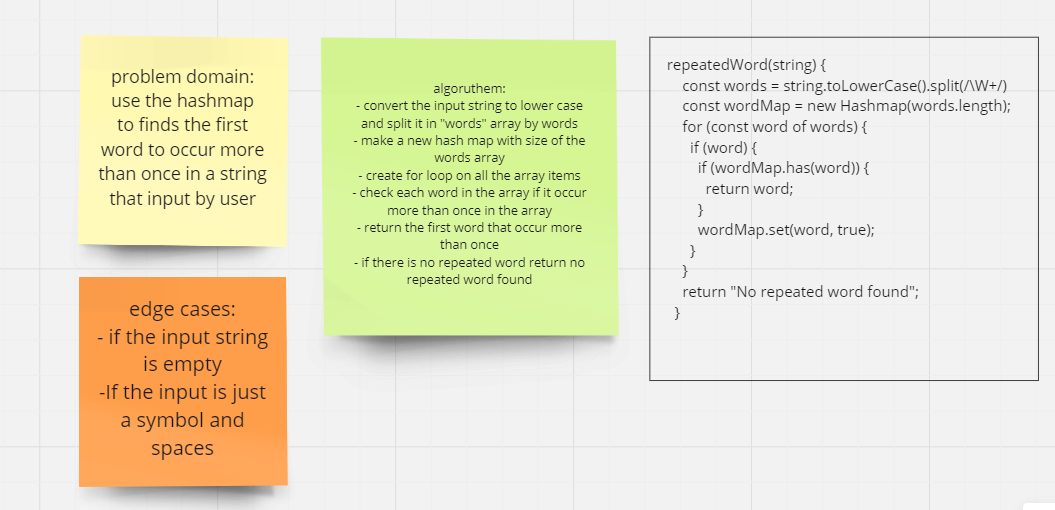
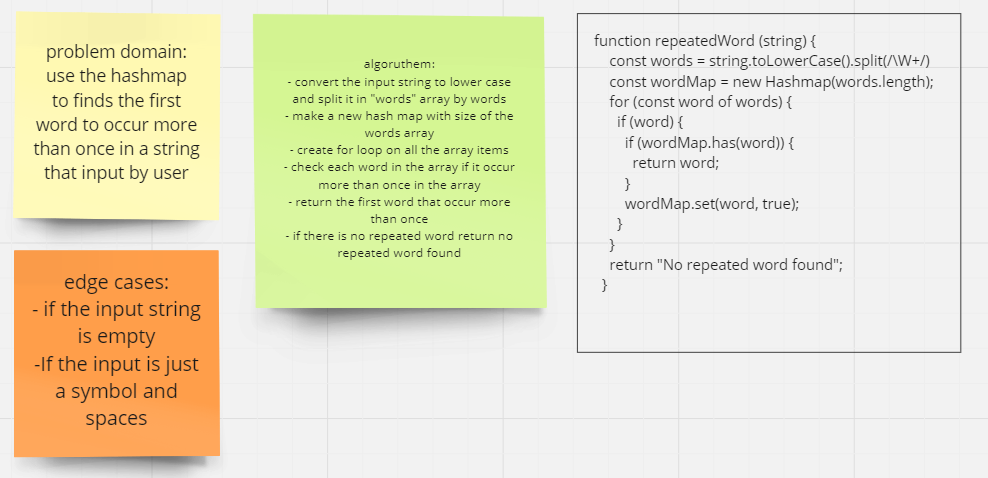
transfer the repeatedWord to function DONE

Changed region(s): [[0.0, 0.0, 1.0, 0.9958], [0.5769, 0.7322, 0.9717, 0.7615]]

diff --git a/javascript/Class31(repeatedWord).md b/javascript/Class31(repeatedWord).md
@@ -8,8 +8,8 @@
 
 ### You can see the code Test of the challenge here: [Hashtable.TEST](./hashtable/__tests__/hashtable.test.js)
 
-### [ pull request ](https://github.com/Mohammad-Aljamal/data-structures-and-algorithms/pull/41)
-### [ pull request ](https://github.com/Mohammad-Aljamal/data-structures-and-algorithms/pull/42)
+<!-- ### [ pull request ](https://github.com/Mohammad-Aljamal/data-structures-and-algorithms/pull/41) -->
+<!-- ### [ pull request ](https://github.com/Mohammad-Aljamal/data-structures-and-algorithms/pull/42) -->
 ### [ pull request ](https://github.com/Mohammad-Aljamal/data-structures-and-algorithms/pull/44)
 
 
